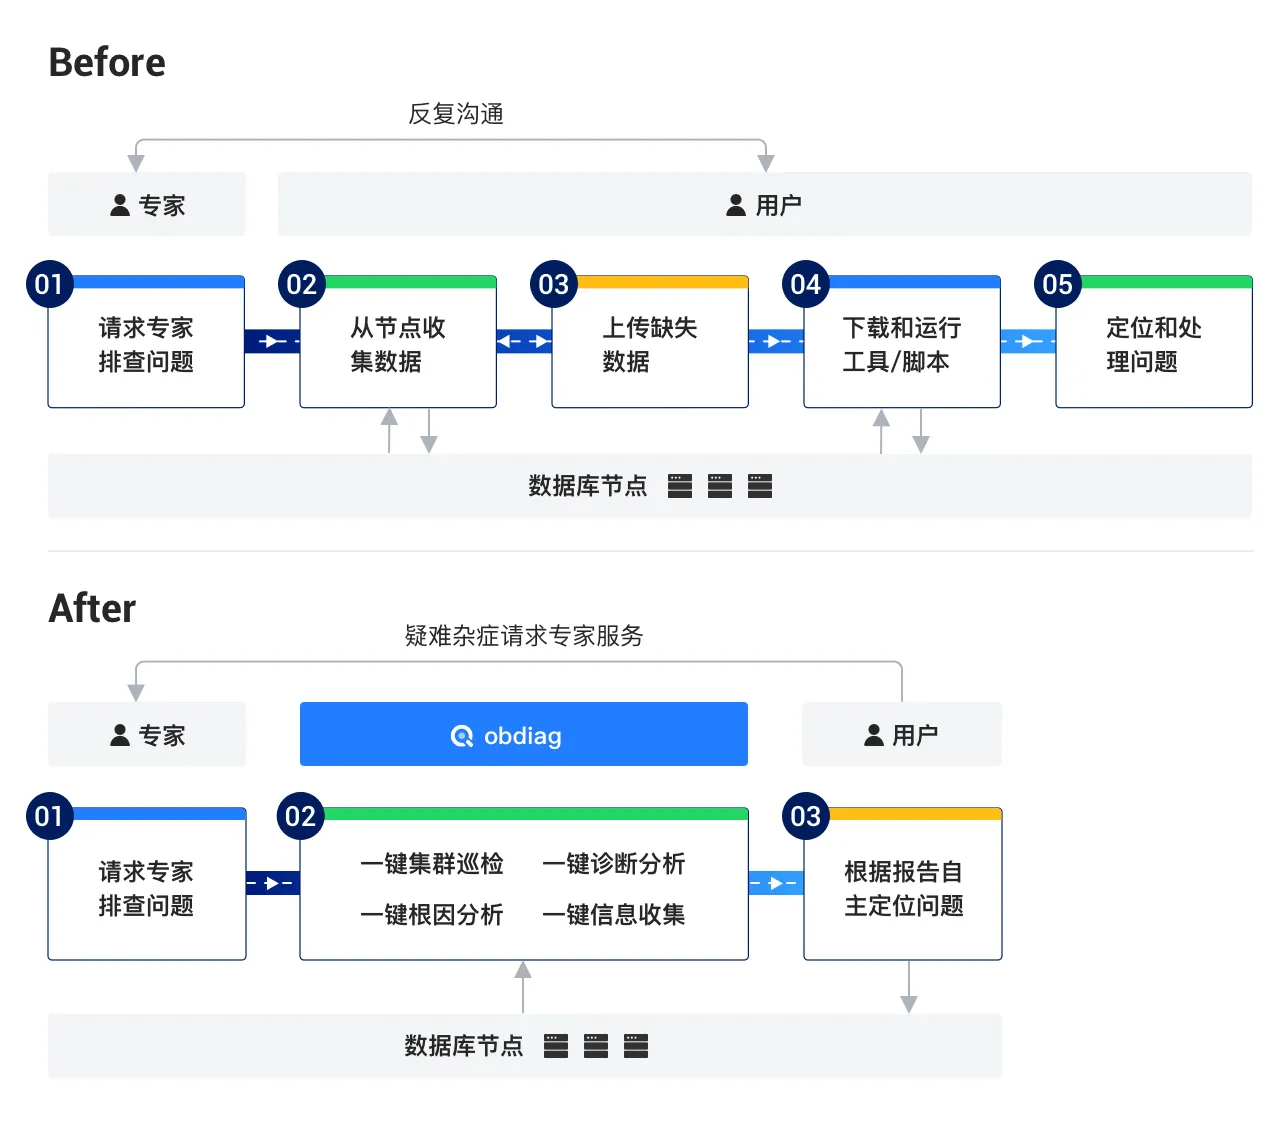
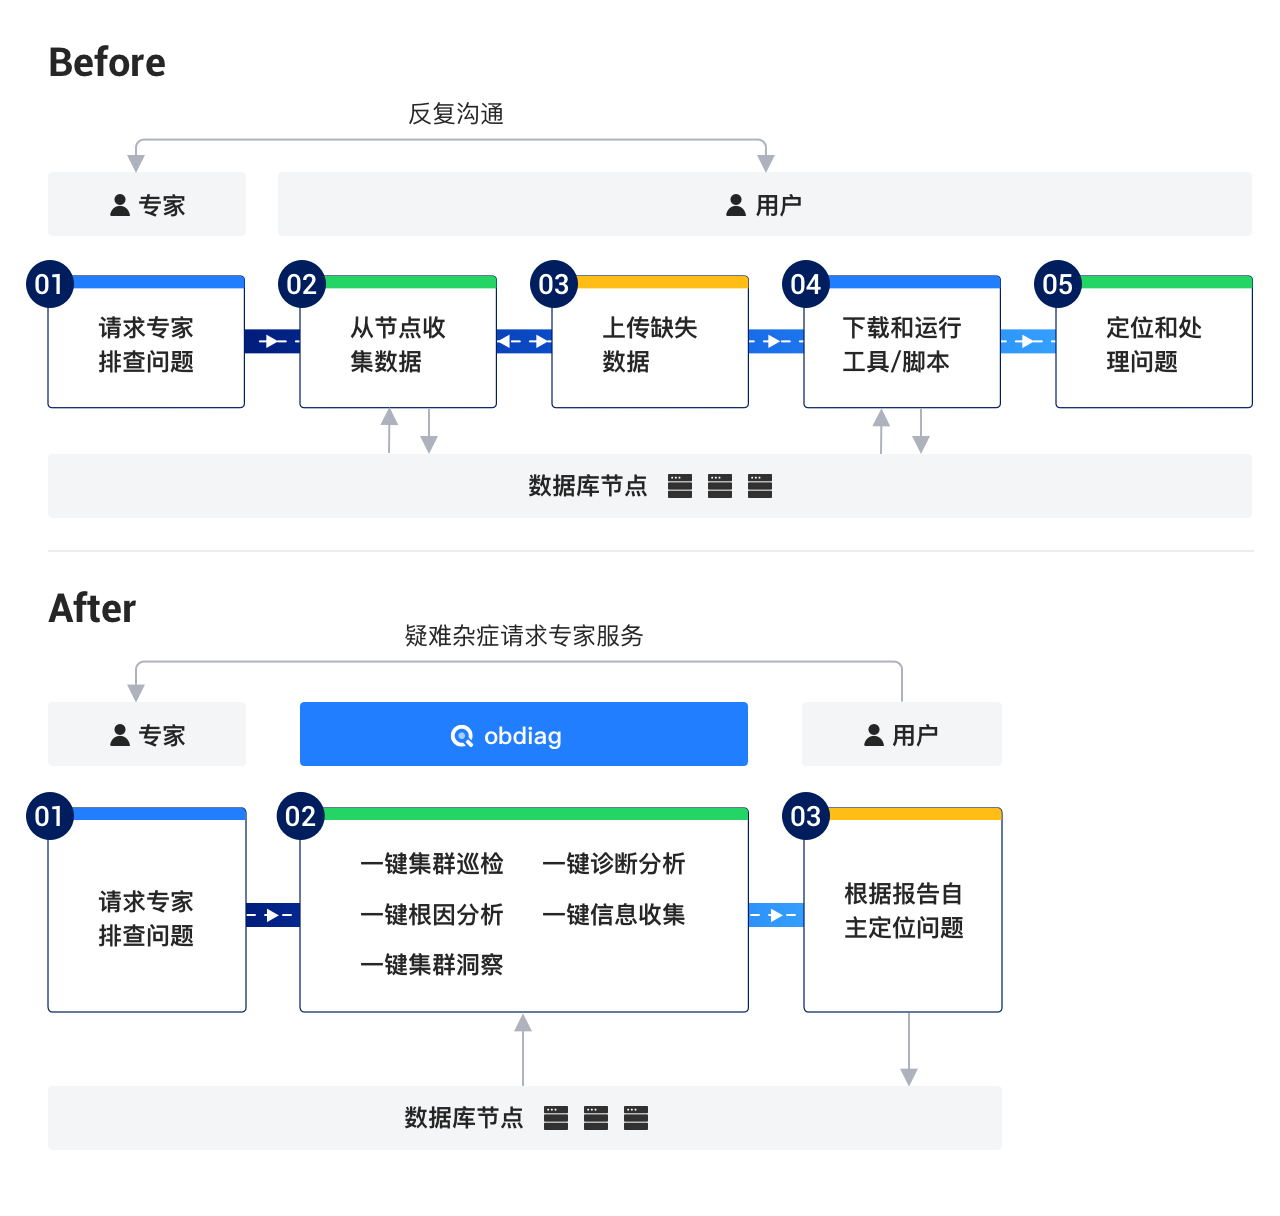
sig update infomation (#24)
<!--
Thank you for contributing to OceanBase! 
Please feel free to ping the maintainers for the review!
-->

## Summary
<!-- 
Please clearly and concisely describe the purpose of this pull request.
If this pull request resolves an issue, please link it via "close #xxx"
or "fix #xxx".
-->

## Solution Description
<!-- Please clearly and concisely describe your solution. -->

diff --git a/sigs/sig-obdiag/README_CN.md b/sigs/sig-obdiag/README_CN.md
@@ -30,6 +30,7 @@ obdiag的功能如下：
 - 一键诊断分析：使用 obdiag analyze 命令可帮助 OceanBase 数据库相关的诊断信息分析，目前支持对 OceanBase 的日志进行一键分析，找出发生过的错误信息；一键全链路诊断分析，展示全链路诊断树，定位链路慢在何处。
 - 一键信息收集：使用 obdiag gather 命令可帮助 OceanBase 数据库相关的诊断信息收集。目前支持基础诊断信息收集和基于场景的诊断信息一键收集。
 - 一键根因分析：使用 obdiag rca 命令可帮助 OceanBase 数据库相关的诊断信息分析，目前支持对 OceanBase 的异常场景进行分析，找出可能导致问题的原因。
+- 一键集群洞察：使用 obdiag display 命令可帮助洞察 OceanBase 数据库相关的信息。
 
 ## 关联的代码仓库
 
@@ -43,7 +44,7 @@ obdiag的功能如下：
 周会信息：每周举行一次线上周会，会议时间初定每周五 16:00-17:00。会议纪要记录到外网语雀文档和 GitHub 中
 周会归档：[周会记录](https://oceanbase.yuque.com/org-wiki-obtech-vh7w9r/imzr6c/pa2ny21mpif09xot)
 
-微信群：专用微信群【[SIG] OceanBase 诊断工具兴趣小组】，便于成员随时讨论问题，微信群添加方式，添加微信：obdiagsig，说明加群目的，审核通过后管理员会将加用户加入微信群中。
+微信群：专用微信群【[SIG] OceanBase 诊断工具兴趣小组】，便于成员随时讨论问题，微信群添加方式，添加“OB SIG小助手”微信：OBCE888，说明加群目的，审核通过后管理员会将加用户加入微信群中。
 
 ## 组织架构
 > 我们要求成立一个SIG，最少有3个人
@@ -55,10 +56,14 @@ obdiag的功能如下：
 - 白鳝(xuji755), 南京基石数据
 - 汤庆(Teingi), OceanBase
 - 傅榕锋(frf12), OceanBase
+- 王煦焱(wayyoungboy), OceanBase
 
 ### Committer
 
-- 王煦焱(wayyoungboy), OceanBase
+- 黄尖(RoyceHwangCN), 百丽
+- 纪晓东(xiaodong-ji), 北控水务
+- 靖永栋(jingyd66), 联通软件研究院,
+- 孙鹏(oraclebird), 南京基石数据
 
 ### Contributor
 

diff --git a/votes/README_CN.md b/votes/README_CN.md
@@ -2,22 +2,15 @@
 
 ## 投票信息
 
-当前目录包含了所有投票历史记录。
-每个投票记录一个文件，以 `YYYY-MM-DD-投票事件.md` 命名，其中 `YYYY-MM-DD` 是投票日期。
+- 本仓库只收录需要 TOC 投票的信息。
+- 当前目录包含了所有投票历史记录。
+- 每个投票记录一个文件，以 `YYYY-MM-DD-投票事件.md` 命名，其中 `YYYY-MM-DD` 是投票日期。
 
 > 文件名 "投票事件" 用英文书写。
-
-发起投票请填写投票模板，参考 [投票模板](./template/VOTE_TEMPLATE.md)，并发起 PR。通常投票是配合其它事件发生的，比如：
-- SIG 创建、变更、终止；
-- SIG 成员变更；
-- SIG 信息变更
-- TOC 成员变更；
-- TOC 信息变更；
 
 申请创建新项目，参考 [创建项目申请模板](./template/CREATE_REPO_TEMPLATE.md)，并发起 PR。
 
 ## 投票规则
-某些信息变更已经有了明确的投票规则，比如 SIG 创建、变更、终止，TOC 成员变更等。如果没有明确的投票规则，则按照下面的规则与流程进行投票。
 
 **规则**
 
@@ -28,8 +21,8 @@
 **流程**
 
 - 发起投票。在 [oceanbase/community](https://github.com/oceanbase/community) 中发起 PR，修改对应信息，并在 PR 的描述中说明修改内容和原因；
-- 填写投票信息。在当前目录下创建一个新的投票文件，按照[投票模板](./template/VOTE_TEMPLATE.md)填写投票信息；
-- TOC、PMC 成员投票；
+- 填写投票信息；
+- TOC成员投票；
 - 投票通过后，PR 会被 merge，变更成功。否则变更失败。
 
 ## 如何投票

diff --git a/sigs/sig-cloud-native/README_CN.md b/sigs/sig-cloud-native/README_CN.md
@@ -16,7 +16,7 @@ https://oceanbase.yuque.com/org-wiki-obtech-vh7w9r/cloud-native
 周会信息：每周周五下午2点（北京时间）
 周会归档：[周会记录](https://oceanbase.yuque.com/org-wiki-obtech-vh7w9r/cloud-native/hng2krvfkygb375x)
 
-微信群：添加OB社区小助手(微信号：OBCE666），备注“SIG-cloud-native”，等待邀请入群。
+微信群：添加OB SIG小助手(微信号：OBCE888），备注“SIG-cloud-native”，等待邀请入群。
 
 
 ## 组织架构

diff --git a/sigs/sig-template/README_CN.md b/sigs/sig-template/README_CN.md
@@ -17,7 +17,7 @@
 周会信息（如果有的话）：每周周五下午4点（北京时间）
 周会归档：[周会记录](https://oceanbase.yuque.com/org-wiki-obtech-vh7w9r/imzr6c/sm9xzu63xq2688wz)
 
-微信群：添加OB社区小助手(微信号：OBCE666），备注“SIG-xxx”，等待邀请入群。
+微信群：添加OB SIG小助手(微信号：OBCE888），备注“SIG-xxx”，等待邀请入群。
 
 > 要求微信群群名以 "[SIG-`SIG名称`]" 为前缀。
 

diff --git a/sigs/sig-ai/README_CN.md b/sigs/sig-ai/README_CN.md
@@ -16,7 +16,7 @@
 周会信息：暂无
 周会归档：暂无
 
-微信群：添加OB社区小助手(微信号：OBCE666），备注“SIG-AI”，等待邀请入群。
+微信群：添加OB SIG小助手(微信号：OBCE888），备注“SIG-AI”，等待邀请入群。
 
 ## 组织架构
 
@@ -29,5 +29,6 @@
 - 单海康(@GITHUBear), OceanBase
 
 ### Committer
+虚位以待
 
 ### Contributor

diff --git a/sigs/membership.md b/sigs/membership.md
@@ -84,5 +84,4 @@ Maintainer 不再活跃或不能再参与相关项目，可以由自己或其他
 
 ## 成员变更流程
 - 在[oceanbase/community](https://github.com/oceanbase/community)中发起成员变更PR，PR 标题为 `SIG Membership Change: {name} ({role})`；
-- 增加[投票记录](../votes/README_CN.md)；
 - 审核通过后合并 PR，即变更成功。

diff --git a/sigs/sig-miniob/README_CN.md b/sigs/sig-miniob/README_CN.md
@@ -17,7 +17,7 @@ https://oceanbase.yuque.com/org-wiki-obtech-vh7w9r/miniob
 
 周会信息（如果有的话）：当前没有周会
 
-微信群：添加OB社区小助手(微信号：OBCE666），备注“SIG-miniob”，等待邀请入群。
+微信群：添加OB SIG小助手(微信号：OBCE888），备注“SIG-miniob”，等待邀请入群。
 
 ## 组织架构
 

diff --git a/sigs/sig-operations/README_CN.md b/sigs/sig-operations/README_CN.md
@@ -18,7 +18,7 @@
 周会信息：暂无
 周会归档：暂无
 
-微信群：添加OB社区小助手(微信号：OBCE666），备注“SIG-operation”，等待邀请入群。
+微信群：添加OB SIG小助手(微信号：OBCE888），备注“SIG-operation”，等待邀请入群。
 
 ## 组织架构
 

diff --git a/votes/template/CREATE_REPO_TEMPLATE.md b/votes/template/CREATE_REPO_TEMPLATE.md
@@ -7,8 +7,8 @@
 项目目的：项目用于做什么，可以解决什么问题，面向的用户群体等等
 
 项目责任人(github id)：
-- PMC：
-- PMC：
+- Maintainer:
+- Maintainer:
 - Committer:
 - Committer:
 
